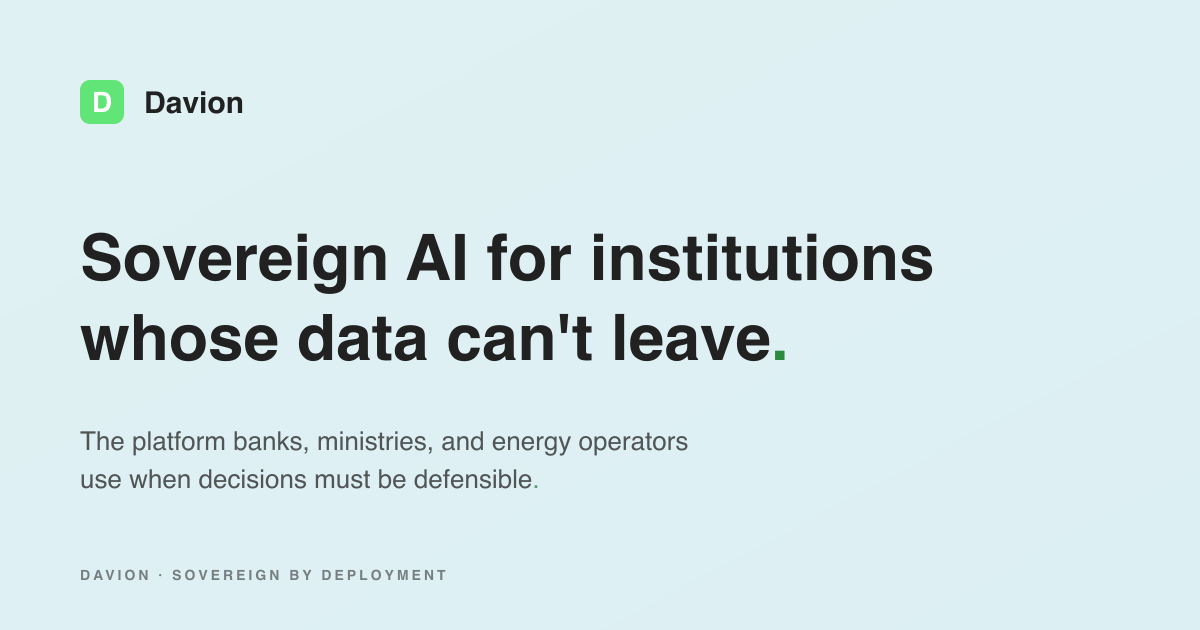
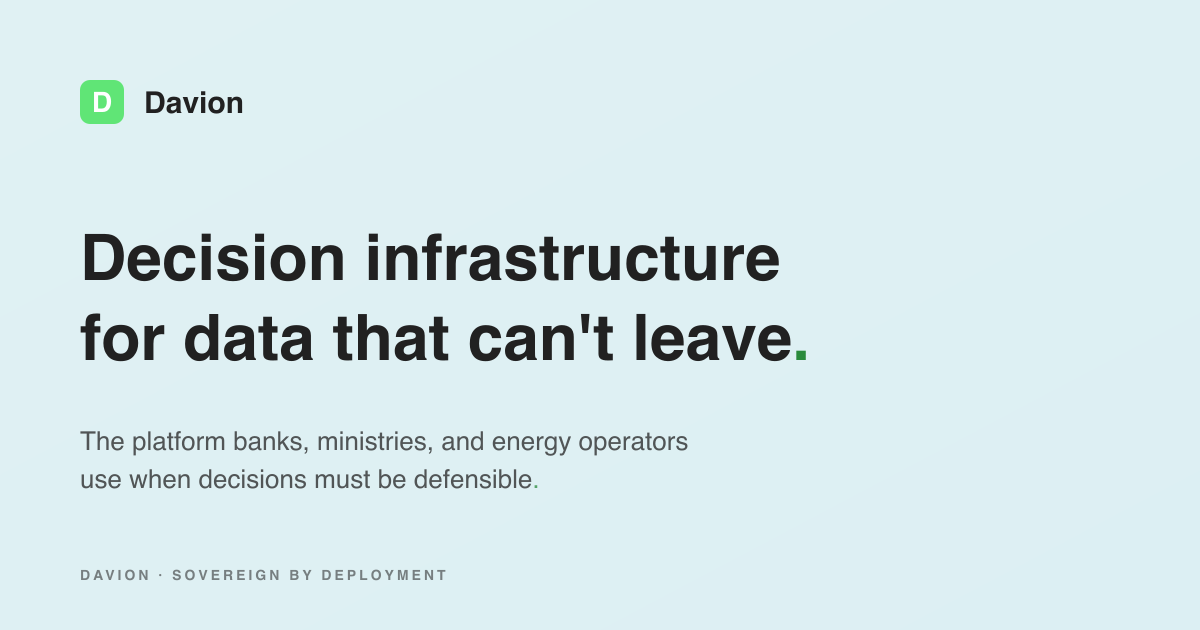
copy: fix hardcoded fallback meta + OG cover for new home headline
Diagnosis: the home hero was changed via i18n in f4d109c, but the
served HTML still showed 'Sovereign AI for institutions whose data
can't leave' in <meta description>, og:title, twitter:title, and
og:image:alt. Reason: nuxt.config.ts.app.head.meta has those as
hardcoded fallbacks. They get baked into server/chunks/routes/
renderer.mjs at build time. useSeoMeta in pages/index.vue reactively
overrides per-route, but the initial server response (and the meta a
crawler reads) carries the fallback. With the fallback stale, every
viewer saw the old headline in source + every social share rendered
the old OG card.

Fix: update the 4 hardcoded meta strings + the OG-cover SVG render to
match the new headline. Regenerated public/og-cover.png with the new
copy (1200x630, 46KB).

Lesson: pages.hero.headline, nuxt.config.ts fallback meta, and
build-og-cover.mjs SVG headline have to move together. Added a
comment in nuxt.config.ts noting the lock-step requirement so the
next person doesn't get bitten.

Changed region(s): [[0.0617, 0.3619, 0.8017, 0.573]]

diff --git a/apps/web/nuxt.config.ts b/apps/web/nuxt.config.ts
@@ -144,26 +144,31 @@ export default defineNuxtConfig({
             title: 'Davion',
             titleTemplate: '%s · Davion',
             meta: [
-                // P0.3: meta + OG aligned to the new home hero (Variant A, clarity-first).
-                { name: 'description', content: 'Sovereign AI for institutions whose data can\'t leave. The platform banks, ministries, and energy operators use when decisions must be defensible, auditable, and made on data that never enters a public cloud.' },
+                // P0.3: meta + OG aligned to the home hero. Headline reuses the same
+                // copy as pages.hero.headline so the meta you see in 'View Source' on /
+                // matches what the visible H1 says. Update this whenever the hero
+                // changes — these strings get baked into the SSR renderer at build
+                // time (they're the fallback, useSeoMeta in pages/index.vue overrides
+                // at runtime but the initial HTML response carries these by default).
+                { name: 'description', content: 'Decision infrastructure for data that can\'t leave. The platform banks, ministries, and energy operators use when decisions must be defensible, auditable, and made on data that never enters a public cloud.' },
                 // QW.6: theme-color now matches the brand green (was #0A0B0F, unrelated dark).
                 { name: 'theme-color', content: '#60E576' },
 
                 // Twitter Card
                 { name: 'twitter:card', content: 'summary_large_image' },
-                { name: 'twitter:title', content: 'Davion, Sovereign AI for institutions whose data can\'t leave' },
+                { name: 'twitter:title', content: 'Davion, Decision infrastructure for data that can\'t leave' },
                 { name: 'twitter:description', content: 'The platform banks, ministries, and energy operators use when decisions must be defensible, auditable, and made on data that never enters a public cloud.' },
                 { name: 'twitter:image', content: '/og-cover.png' },
 
                 // Open Graph (P1.6: default OG card lives at /og-cover.png, placeholder
                 // until P2.3 identity refresh; per-page cards via Satori land in P2.)
                 { property: 'og:type', content: 'website' },
-                { property: 'og:title', content: 'Davion, Sovereign AI for institutions whose data can\'t leave' },
+                { property: 'og:title', content: 'Davion, Decision infrastructure for data that can\'t leave' },
                 { property: 'og:description', content: 'The platform banks, ministries, and energy operators use when decisions must be defensible, auditable, and made on data that never enters a public cloud.' },
                 { property: 'og:image', content: '/og-cover.png' },
                 { property: 'og:image:width', content: '1200' },
                 { property: 'og:image:height', content: '630' },
-                { property: 'og:image:alt', content: 'Davion, Sovereign AI for institutions whose data can\'t leave.' },
+                { property: 'og:image:alt', content: 'Davion, Decision infrastructure for data that can\'t leave.' },
                 { property: 'og:site_name', content: 'Davion' },
             ],
             link: [
